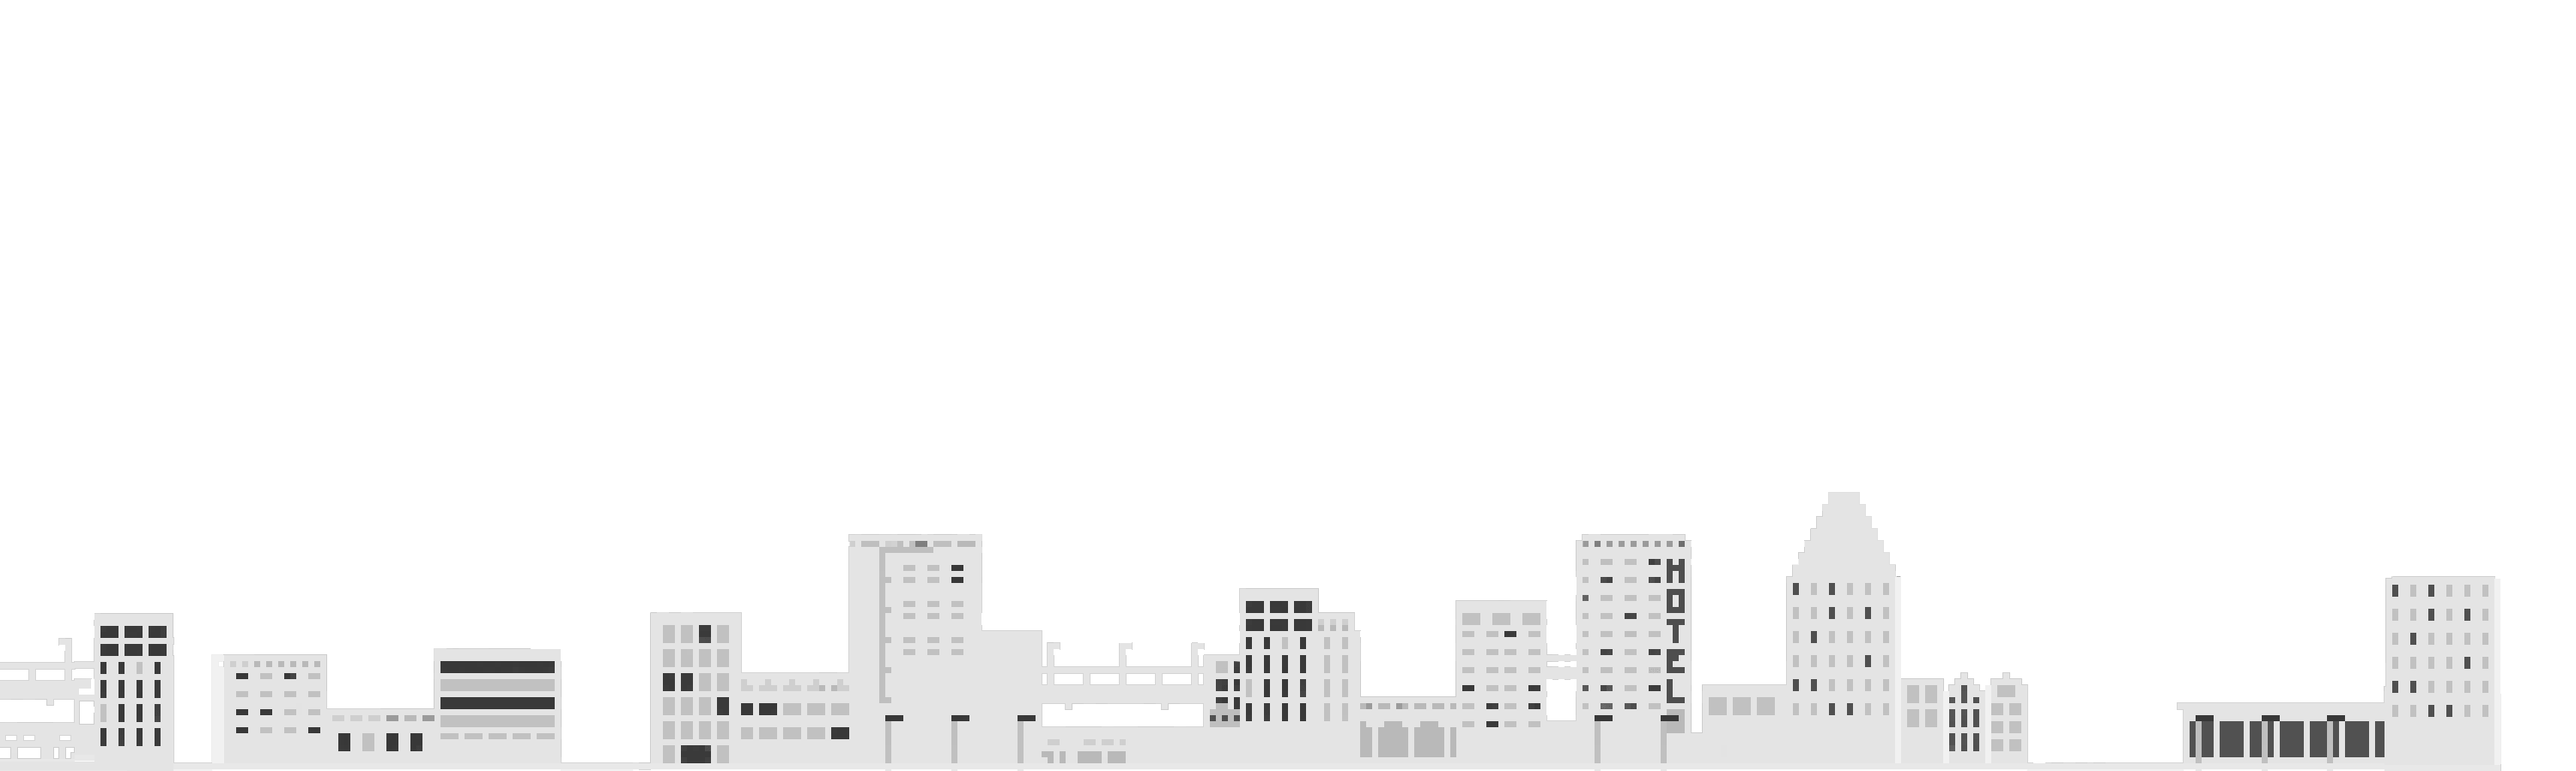
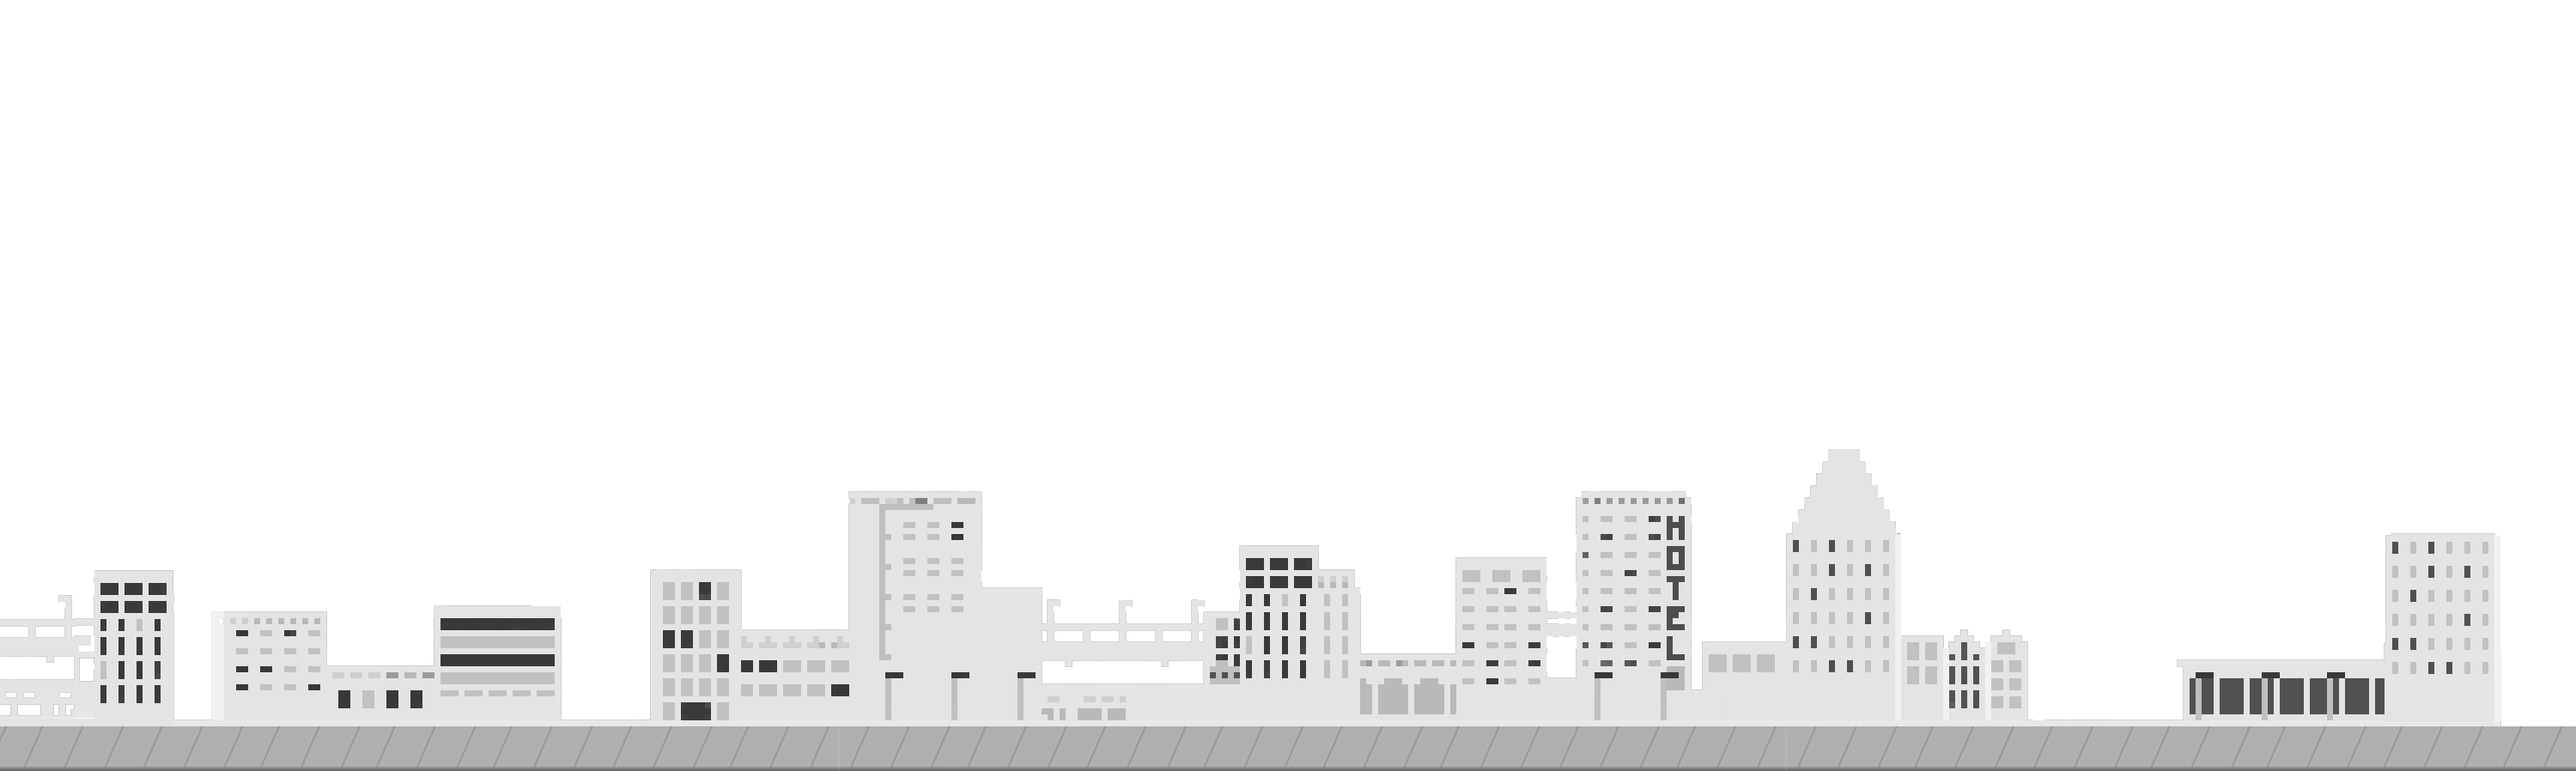
add sidewalk/lamps

Changed region(s): [[0.0, 0.5924, 1.0, 1.0]]

diff --git a/index.html b/index.html
@@ -31,6 +31,9 @@
     <div class="parallax__layer parallax__layer__5">
         <img src="./images/cityLayer1.png"/>
     </div>
+    <div class="parallax__layer parallax__layer__6">
+        <img src="./images/cityLayer0.png"/>
+    </div>
     <div class="parallax__cover"></div>
   </div>
 </body>

diff --git a/styles.css b/styles.css
@@ -32,7 +32,7 @@
    bottom: 0;
 }
  .parallax__cover {
-	 background: #2d112b;
+	 background: #e4e4e4;
 	 display: block;
 	 position: absolute;
 	 top: 100%;
